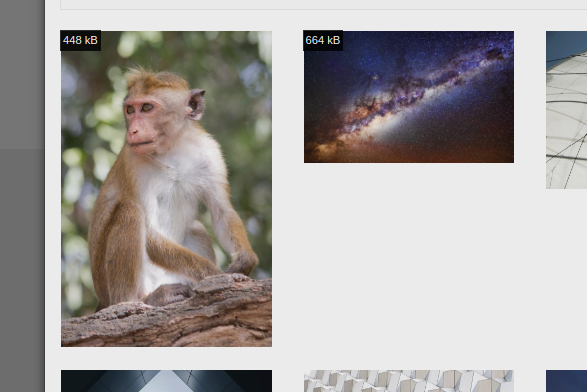
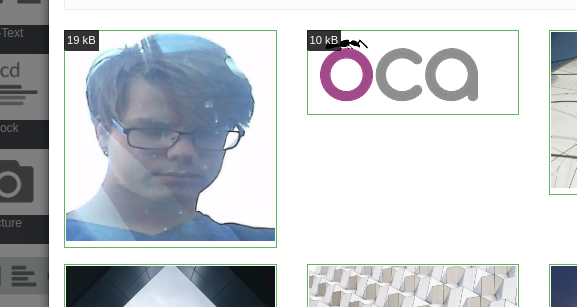
[IMP] overriding method of inaccessible class

diff --git a/website_media_size/static/src/js/website_media_size.js b/website_media_size/static/src/js/website_media_size.js
@@ -2,8 +2,11 @@
  * License AGPL-3.0 or later (https://www.gnu.org/licenses/agpl). */
 
 odoo.define('website_media_size', function(require) {
+"use strict";
+
     var MediaDialog = require('web_editor.widget').MediaDialog;
     var weContext = require("web_editor.context");
+    var Widget = require('web.Widget');
 
     MediaDialog.include({
         xmlDependencies: MediaDialog.prototype.xmlDependencies.concat(
@@ -11,31 +14,20 @@ odoo.define('website_media_size', function(require) {
         ),
         start: function() {
             var res = this._super.apply(this, arguments);
-            this.include_file_size(this.imageDialog);
-            this.include_file_size(this.documentDialog);
             this.search();
             return res;
-        },
-        include_file_size: function(obj) {
-            var self = this;
-            // ImageDialog of the web_editor.widget module is not available
-            obj.fetch_existing = function(needle) {
-                var domain = [['res_model', '=', 'ir.ui.view']].concat(obj.domain);
-                if (needle && needle.length) {
-                    domain.push('|', ['datas_fname', 'ilike', needle], ['name', 'ilike', needle]);
-                }
-                return self._rpc({
-                    model: 'ir.attachment',
-                    method: 'search_read',
-                    args: [],
-                    kwargs: {
-                        domain: domain,
-                        fields: ['name', 'mimetype', 'checksum', 'url', 'type', 'file_size'],
-                        order: [{name: 'id', asc: false}],
-                        context: weContext.get(),
-                    }
-                }).then(obj.proxy('fetched_existing'));
-            };
+        }
+    });
+
+    // ImageDialog of the web_editor.widget module is not available
+    Widget.include({
+        _rpc: function(params, options) {
+            if (this.template === 'web_editor.dialog.image' &&
+                params.model === 'ir.attachment' &&
+                params.method === 'search_read') {
+                params.kwargs.fields.push('file_size');
+            }
+            return this._super(params, options);
         }
     });
 });
